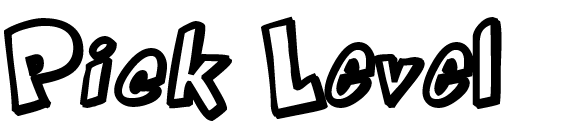
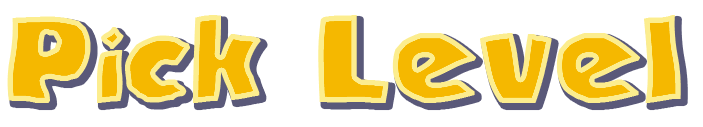
PickLevel looks a little nicer.

diff --git a/ballsy/src/ballsy/LevelMenu1.java b/ballsy/src/ballsy/LevelMenu1.java
@@ -2,23 +2,28 @@ package ballsy;
 
 import editor.LevelEditor;
 import graphics.Image;
+import graphics.Text;
 import ballsy.ScreenLoader.Screens;
 
 public class LevelMenu1 extends Screen {
 
 	private Image _title;
+//	private Text _title, _titleBack;
 	
 	@Override
 	public void setup() {
 		_title = new Image(_window, "res/pick_level_title.png", 582,125, 10,30);
 		_title.setImageMode(_window.CORNER);
-
+//		_title = new Text("Pick Level", 10, 100);
+//		_title.setAlign(_window.LEFT);
+//		_title.setSize(72);
+//		_title.setColor(_window.color(246,183,0));
 	}
 
 	@Override
 	public void draw() {
 		
-		_window.background(255,255,255);
+		_window.background(50,200,200);
 		_window.stroke(0);
 
 		//title
@@ -26,11 +31,13 @@ public class LevelMenu1 extends Screen {
 		
 		//line
 		_window.strokeWeight(2);
-		_window.line(0, 160, _window.width, 160);
+//		_window.line(0, 160, _window.width, 160);
 		
 		
 		
 		//test click
+		_window.fill(150, 255, 255, 255);
+		_window.stroke(0, 0);
 		_window.rect(100,200,100,100);
 		
 		_window.rect(300,200,100,100);
@@ -76,6 +83,11 @@ public class LevelMenu1 extends Screen {
 	@Override
 	public void keyPressed() {
 		// TODO Auto-generated method stub
+		
+		if (_window.key == 27 ) { //ESC
+			_window.key = 0;
+			_window.loadScreen(Screens.WELCOME_SCREEN);
+		}
 		
 	}
 

diff --git a/ballsy/src/ballsy/LevelOne.java b/ballsy/src/ballsy/LevelOne.java
@@ -18,6 +18,9 @@ import java.util.Vector;
 
 import org.jbox2d.common.Vec2;
 
+import ddf.minim.AudioSample;
+import ddf.minim.Minim;
+
 import physics.PhysicsPath;
 import bodies.AbstractBody;
 import bodies.Ball;
@@ -32,6 +35,9 @@ public class LevelOne extends AbstractLevel {
 	private Image _background;
 	private Background _bg;
 	private TrackingCamera _camera;
+	private Minim _minim = new Minim(_window);
+	private AudioSample _sound = _minim.loadSample("res/boop.wav", 2048);
+
 	//private Text _text;
 	
 	@Override
@@ -211,6 +217,9 @@ public class LevelOne extends AbstractLevel {
 			case 'q':
 				System.exit(0);
 				break;
+			case 'b':
+//				_sound.setGain(-10);
+				_sound.trigger();
 			}
 		}
 		

diff --git a/ballsy/src/ballsy/Window.java b/ballsy/src/ballsy/Window.java
@@ -33,10 +33,10 @@ public class Window extends PApplet {
 		//this.camera(width/2.0f, height/2.0f, (height/2.0f) / (float) Math.tan(Math.PI*60.0 / 360.0), width/2.0f, height/2.0f, 0f, 0f, 1f, 0f);
 		
 //		this.setScreen(new LevelEditor());
-//		this.loadScreen(Screens.WELCOME_SCREEN);
+		this.loadScreen(Screens.WELCOME_SCREEN);
 //		this.setScreen(new LevelOne());
 //		this.setScreen(new LoadingScreen());
-		this.loadScreen(Screens.LEVEL_EDITOR);
+//		this.loadScreen(Screens.LEVEL_EDITOR);
 		
 		// make a new XMLUtil, using singleton Pattern
 		XMLUtil.setInstance(new XMLUtil());

diff --git a/ballsy/src/editor/LevelEditor.java b/ballsy/src/editor/LevelEditor.java
@@ -19,6 +19,7 @@ import processing.core.PConstants;
 import ballsy.AbstractLevel;
 import ballsy.GeneralConstants;
 import ballsy.Screen;
+import ballsy.ScreenLoader.Screens;
 import graphics.Text;
 
 public class LevelEditor extends Screen {
@@ -506,6 +507,10 @@ public class LevelEditor extends Screen {
 				_level.stop();
 			} else _level.keyPressed();
 		} 
+		else if (_window.key == 27) { //esc takes us back to welcome screen
+			_window.key = 0;
+			_window.loadScreen(Screens.WELCOME_SCREEN);
+		}
 		
 		_level.keyPressed();
 	}

diff --git a/ballsy/src/graphics/Text.java b/ballsy/src/graphics/Text.java
@@ -7,7 +7,7 @@ import static ballsy.GeneralConstants.*;
 public class Text {
 
 	private Window _window;
-	private PFont _font = DEFAULT_FONT;
+	protected PFont _font = DEFAULT_FONT;
 	protected int _textAlign = _window.CENTER;
 	private int _x, _y;
 	private int _color = DEFAULT_FONT_INACTIVE;

diff --git a/ballsy/src/graphics/TextButton.java b/ballsy/src/graphics/TextButton.java
@@ -37,6 +37,10 @@ public class TextButton extends Text {
 		_y = y;
 	}
 	
+	public void setSize(int size) {
+		super.setSize(size);
+		_height = _font.getFont().getSize();
+	}
 	
 	public boolean mouseOver() {
 		int x = _window.mouseX;

diff --git a/ballsy/src/ballsy/AbstractLevel.java b/ballsy/src/ballsy/AbstractLevel.java
@@ -222,4 +222,5 @@ public abstract class AbstractLevel extends Screen {
 		_debug = new Text(s,100,100,100,Window.CORNER);
 		_debug.setSize(30);
 	}
+
 }
